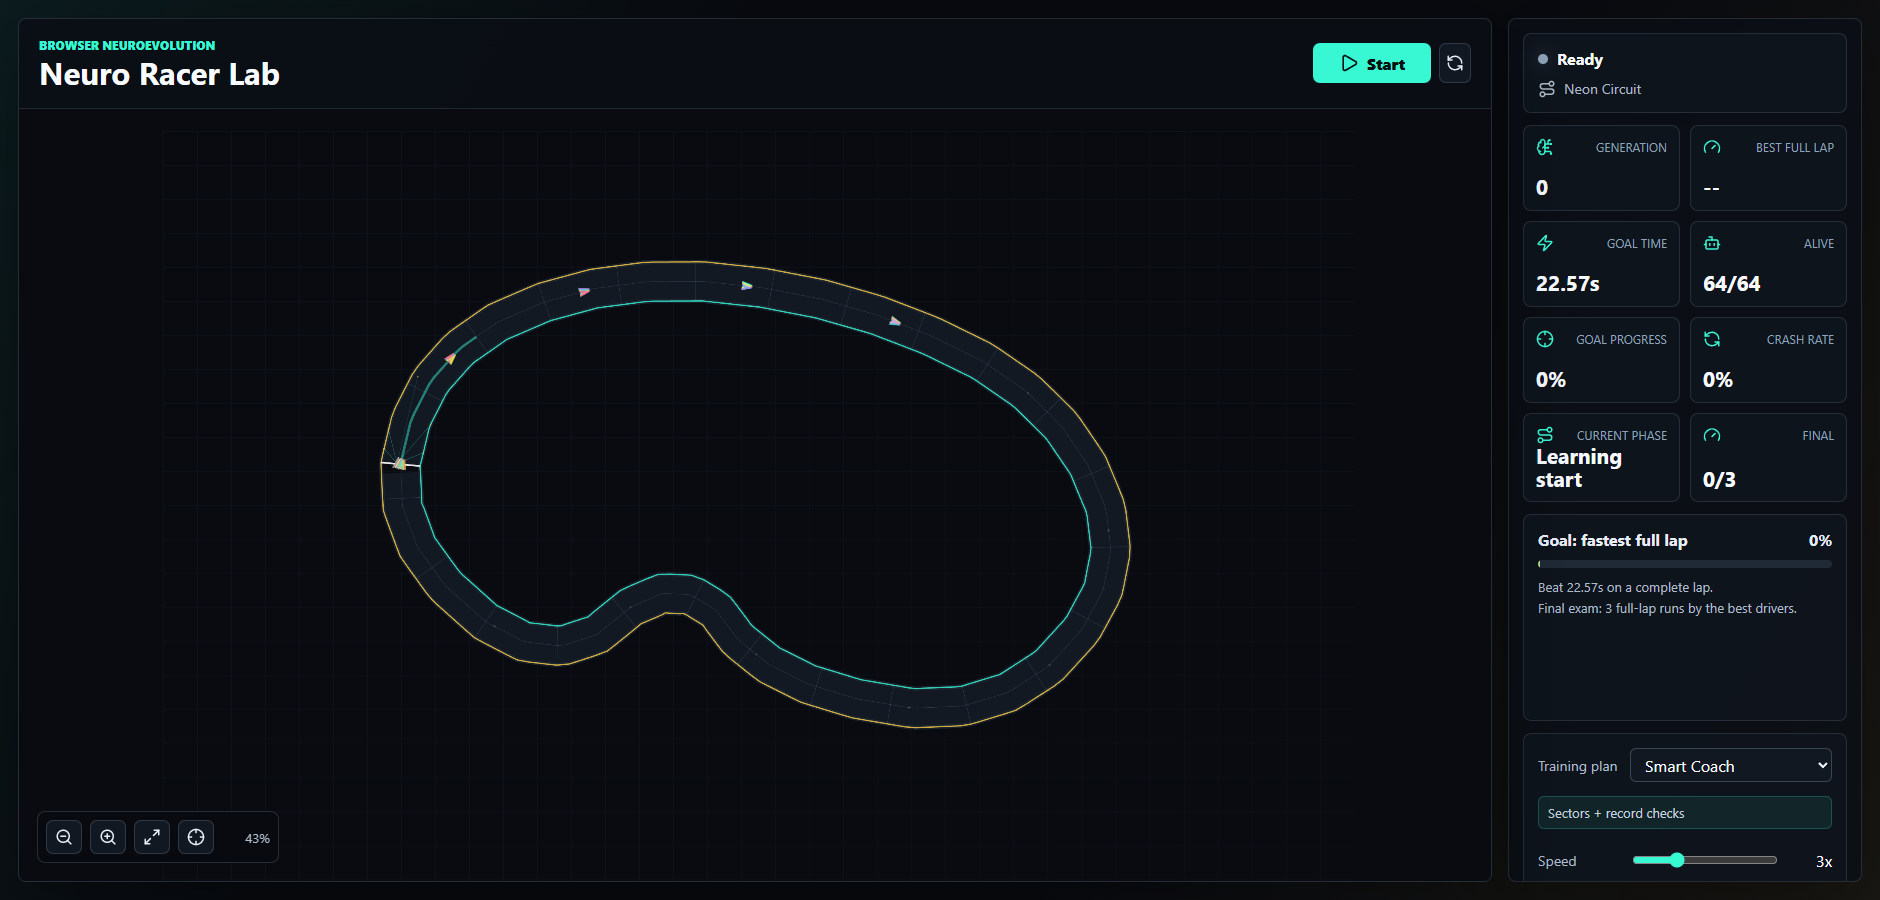
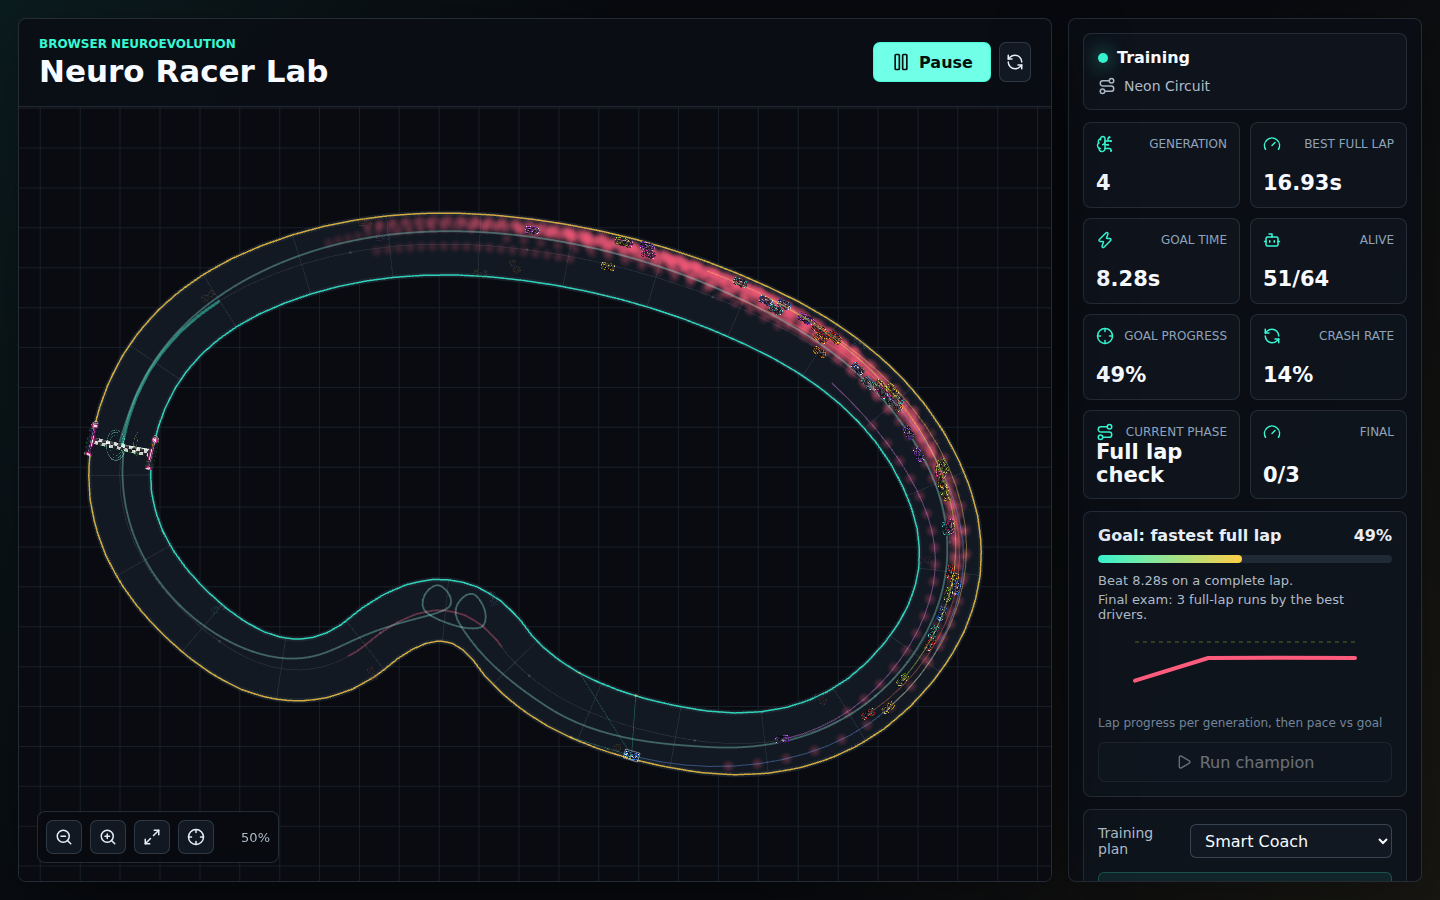
docs: rewrite README for the new engine, headless trainer and QA flow
Documents the architecture, track-aware lap goal, controls, headless
training benchmark, browser QA scripts and deployment; refreshes the
simulator screenshot.

diff --git a/README.md b/README.md
@@ -8,7 +8,7 @@ Interactive neuroevolution racing lab for the browser. Draw a custom track, let 
 [![Phaser](https://img.shields.io/badge/Phaser-3.90-8A2BE2)](https://phaser.io/)
 [![License](https://img.shields.io/badge/License-MIT-green.svg)](LICENSE)
 
-**Live demo:** [neuro-racer-lab.vercel.app](https://neuro-racer-lab.vercel.app)  
+**Live demo:** [neuro-racer-lab.vercel.app](https://neuro-racer-lab.vercel.app)
 **Repository:** [github.com/Blizzeq/neuro-racer-lab](https://github.com/Blizzeq/neuro-racer-lab)
 
 ![Neuro Racer Lab simulator](docs/neuro-racer-lab-demo.png)
@@ -17,70 +17,92 @@ Interactive neuroevolution racing lab for the browser. Draw a custom track, let 
 
 ## What It Does
 
-Neuro Racer Lab is a public web demo where the user trains small neural-network cars to drive a drawn racing line as fast as possible.
+Neuro Racer Lab is a public web demo where a population of small neural networks learns to drive a track you draw, as fast as possible.
 
-- Draw or load a route on a real pan/zoom infinite canvas.
-- The app generates road edges, checkpoints, spawn poses, sectors, and Matter Physics walls.
-- Cars drive in parallel with ray sensors and a compact neural controller.
+- Draw a route on an unbounded pan/zoom canvas (mouse, trackpad, or touch with pinch-zoom).
+- The app smooths the route and builds road walls, checkpoints, sectors, and a spawn pose. Self-crossing, tiny, or overlapping routes are rejected with a clear message.
+- 64 cars drive in parallel with ray sensors and a compact neural controller.
 - A Smart Coach curriculum trains difficult sectors, validates full laps, and finishes with a final exam.
 - The champion is the genome with the shortest completed full lap, not just the highest partial score.
-- Save/load and JSON export/import preserve the track, training config, and best driver.
-- Ghosts, heat traces, sector highlights, and live stats make the learning process visible.
+- Save/load (browser storage) and JSON export/import preserve the track, training config, and best driver.
+- Ghosts, heat traces, sector highlights, sensor rays, and live stats make the learning process visible.
 
 ## Training Goal
 
-The goal is explicit: train the cars until one driver can finish the whole track quickly and consistently.
+The goal is explicit: train until one driver finishes the whole track close to the ideal lap time.
+
+The goal time is derived from the track itself. A reference driver follows the centerline at the car's grip limit, braking before and accelerating out of every corner. The goal is that reference lap plus 8%. A twisty track gets a slower goal than an oval of the same length, and the cars have to learn to brake to reach it.
 
 Smart Coach runs in phases:
 
-1. **Learning start** - builds basic steering and forward progress.
-2. **Sector practice** - starts cars from multiple parts of the track so long routes train faster.
-3. **Hard corner practice** - focuses population pressure on the weakest sectors.
-4. **Full lap validation** - regularly checks whether sector skills combine into a real lap.
-5. **Record attempt** - tries to beat the current target lap time.
-6. **Final exam** - confirms the champion over full-lap attempts.
-7. **Training complete** - unlocks a champion run with the best driver.
+1. **Learning start**: basic steering and forward progress on full laps.
+2. **Sector practice**: cars start from several parts of the track, so long routes train faster.
+3. **Hard corner practice**: population pressure moves to the sectors with the most crashes.
+4. **Full lap validation**: regular checks that sector skills combine into a real lap.
+5. **Record attempt**: tries to beat the current best lap.
+6. **Final exam**: the population must produce a completed full lap in `finalExamRounds` exam generations.
+7. **Training complete**: unlocks a champion run with the best driver.
 
-The UI keeps the advanced genetic algorithm details out of the way by default. Users see the current phase, fastest lap, best full lap, sector coverage, hardest sector, crash rate, and final progress.
+Training also ends (through the final exam) when the best lap has not improved for `goalPatienceGenerations` generations.
 
 ## How Learning Works
 
 Each driver owns a JSON-compatible genome: a flat list of weights for a fixed neural network.
 
-- **Inputs:** wall ray distances, speed, heading error to the look-ahead tangent, and upcoming turn curvature.
-- **Network:** small MLP controller with steering and throttle outputs.
-- **Fitness before a full lap:** forward progress, checkpoint progress, speed, sector completion, and safe wall clearance.
-- **Fitness penalties:** crash, reversing, stagnation, and driving too close to walls.
-- **Final ranking:** once a car completes a lap, shorter full-lap time wins.
-- **Evolution:** elites are retained, the best historical driver seeds teacher mutations, strong parents cross over, and random immigrants keep exploration alive.
+- **Inputs (8):** five wall-distance rays, speed, heading error to the look-ahead tangent, and upcoming turn direction.
+- **Network:** 8 → 7 (tanh) → 2 (tanh) MLP; outputs are steering and throttle/brake.
+- **Car model:** throttle, air drag, brake drag, partial lateral grip, and a grip-limited yaw rate (`v²/r` capped), so tight corners need a slower entry speed.
+- **Fitness before a full lap:** progress along the centerline, sector completion, and speed.
+- **Fitness penalties:** crashes, reversing, stagnation, and driving too close to walls.
+- **Final ranking:** once a car completes a lap, a shorter lap time always wins.
+- **Evolution:** elites are kept, the best historical driver seeds teacher mutations, strong parents cross over, and random immigrants keep exploring.
 
 This is an interactive neuroevolution demo, not a formal reinforcement learning benchmark. The priority is a clear learning loop, strong visual feedback, and a convincing browser experience.
 
-## Main Features
+## Architecture
 
-- Smart Coach default mode for long tracks and beginner-friendly training.
-- Full Lap Race mode for simple start-to-finish training.
-- Manual Lab mode for population and mutation experiments.
-- Panzoom-powered infinite canvas with cursor-centered wheel zoom, fit-to-track, pan, and follow-best.
-- Phaser 3.90 renderer with Matter Physics collisions.
-- Ghost replay for the best full lap and sector attempts.
-- Line heat overlay for frequently driven parts of the route.
-- Local persistence through `localStorage`.
-- Generated car sprites and reusable racing effects used by the simulator.
-- Static Vercel deployment with no backend required.
+The simulation is plain TypeScript with no rendering or DOM dependencies. The same code runs in the browser, in unit tests, and in a headless Node trainer.
+
+```text
+src/
+  lib/
+    geometry.ts         track generation, validation, boundary loop cleanup
+    trackIndex.ts       spatial grid: ray casts, capsule-vs-wall collisions, windowed progress
+    simulation.ts       car physics, sensors, progress, stagnation, fitness, reference lap
+    trainingSession.ts  generation lifecycle: curriculum, evolution, goal, final exam, stats
+    curriculum.ts       Smart Coach sectors and start selection
+    evolution.ts        elitism, teacher mutations, crossover, immigrants
+    neural.ts           genome, MLP evaluation, mutation, crossover
+    storage.ts          save/load and validated JSON import/export
+  sim/RacerScene.ts     Phaser renderer + camera and input (pan, wheel, pinch, drawing)
+  components/           React simulator shell
+  App.tsx               UI, metrics, controls
+scripts/                headless trainer and browser QA scripts
+public/assets/          generated car sprites and effect assets
+```
+
+Implementation notes:
+
+- **Viewport-sized WebGL canvas.** The canvas matches the stage size (× device pixel ratio, capped at 2), and pan/zoom is a Phaser camera. The world is unbounded, so tracks can be drawn anywhere.
+- **Deterministic fixed-step simulation.** Each tick is 1/60 s. Speed settings run 1–64 ticks per frame, capped by a per-frame time budget so the UI stays responsive.
+- **Fast sensing.** Wall segments live in a uniform grid. Rays use grid traversal (DDA), and collisions test the car capsule only against nearby walls. Car speed stays below the capsule diameter, so cars cannot tunnel through walls.
+- **Continuous progress.** Progress along the centerline is tracked with a windowed nearest-segment search. On hairpins a car cannot "jump" to a spatially closer but later part of the track.
+- **Robust tracks.** Corners tighter than half the road width create reversed loops in the inner wall. Those loops are collapsed, so there are no invisible walls inside the road.
+- **Safe imports.** Imported JSON is validated: genome size and finite weights, clamped config, and track geometry rebuilt from the centerline. A broken file cannot crash the simulator.
 
 ## Tech Stack
 
 - Vite 8
 - React 19
 - TypeScript 6
-- Phaser 3.90 with Matter Physics
-- `@panzoom/panzoom`
-- `geneticalgorithm`
+- Phaser 3.90 (WebGL with Canvas fallback)
 - Vitest
+- tsx (headless trainer)
 - Vercel static hosting
 
 ## Local Development
+
+Requires Node.js 22.12 or newer.
 
 ```bash
 npm install
@@ -97,51 +119,57 @@ Open the Vite URL shown in the terminal.
 | `npm test` | Run unit tests with Vitest. |
 | `npm run build` | Type-check and build the static production site. |
 | `npm run preview` | Preview the production build locally. |
-| `npm run observe:training` | Launch Chrome, start training, and log 45 seconds of Smart Coach metrics through the debug hook. |
-| `npm run smoke:ui` | Run a browser smoke test for zoom/fit, drawing, save/load, export/import, and starting training. |
+| `npm run train:headless` | Train in Node (no browser) on benchmark tracks and report learning speed. |
+| `npm run observe:training` | Launch Chrome, start training, and log Smart Coach metrics through the debug hook. |
+| `npm run smoke:ui` | Browser smoke test: zoom/fit, drawing, save/load, export/import, starting training. |
+| `npm run check:canvas` | Reload the app several times and check that the canvas renders (not blank/white). |
 
-## Training Observer
+## Headless Training
 
-For tuning the learning loop, run the dev server in one terminal and the observer in another:
+`TrainingSession` does not depend on the renderer, so the full training loop can run in Node at thousands of ticks per second:
+
+```bash
+npm run train:headless -- --generations=40 --seeds=3 --tracks=preset,oval,kidney,technical --mode=smartCoach
+```
+
+It prints, per track and seed, the generation of the first completed lap, the best lap, the goal time, and the pace relative to the goal. Runs are deterministic for a given seed, so it is the fastest way to check whether a change to physics, fitness, or evolution helps or hurts. Add `--verbose` to log every generation.
+
+## Browser QA
+
+Run the dev server (or `npm run preview`) in one terminal and the scripts in another. The scripts use `playwright-core` with an installed Chrome/Chromium. Set `CHROME_PATH` if it is not in a standard location.
 
 ```bash
 npm run dev
-node scripts/observe-training.mjs --seconds=60 --mode=smartCoach --speed=8 --seed=qa-01
-```
-
-The observer launches the installed Chrome through `playwright-core`, clicks Start, and records phase, generation, alive cars, crash rate, best full-lap time, goal progress, record attempts, and sector coverage. Use the same `--seed` when comparing Smart Coach with `--mode fullLap` or `--mode manualLab`; run observers one at a time because parallel WebGL sessions can distort results. Add `--track=easyLoop` to draw a simple oval regression track before training.
-
-For UI regression checks, keep the dev server running and execute:
-
-```bash
+node scripts/observe-training.mjs --seconds=60 --mode=smartCoach --speed=16 --seed=qa-01
 npm run smoke:ui
+npm run check:canvas
 ```
 
-## Project Structure
+The observer seeds `Math.random`, clicks Start, and records phase, generation, alive cars, crash rate, best lap, goal progress, record attempts, and sector coverage. Add `--track=easyLoop` to draw a simple oval first, or `--url=http://127.0.0.1:4173` to test the preview build. Run observers one at a time, because parallel WebGL sessions can distort results.
 
-```text
-src/
-  components/       React UI and simulator shell
-  lib/              track generation, genome, fitness, curriculum, export logic
-  sim/              Phaser scene, physics, rendering, pan/zoom integration
-public/            static assets
-public/assets/     generated car sprites and reusable effect assets
-docs/              README media
-```
+## Controls
+
+- **Drag** to pan, **mouse wheel / trackpad pinch** to zoom at the cursor, **two-finger pinch** on touch screens.
+- **Draw track**: draw one closed loop in a single stroke. Right- or middle-drag still pans while drawing.
+- **Follow best car**: the camera tracks the current leader and shows its sensor rays.
+- **Reset** (circular arrows): start training from scratch on the current track.
+- **Run champion**: replay the best driver alone on a full lap (available once a champion exists).
 
 ## Visual Assets
 
-The current visual pack was generated for this project and stored as transparent game-ready assets:
+The visual pack was generated for this project and stored as transparent, game-ready assets:
 
-- `public/assets/cars/*.png` - 8 transparent top-down car sprites used by racers in Phaser.
-- `public/assets/effects/*.png` - checkpoint gates, sensor fans, boost streaks, sparks, and rings.
-- `public/assets/manifest.json` - stable paths for reusing the generated assets elsewhere.
-- `docs/neuro-racer-game-assets.png` - preview sheet for the generated asset pack.
-- `public/og-image.png` - OpenGraph preview built from the useful asset pack.
+- `public/assets/cars/*.png`: 8 transparent top-down car sprites used by the racers.
+- `public/assets/effects/*.png`: checkpoint gates, sensor fans, boost streaks, sparks, and rings.
+- `public/assets/manifest.json`: stable paths for reusing the generated assets elsewhere.
+- `docs/neuro-racer-game-assets.png`: preview sheet for the asset pack.
+- `public/og-image.png`: OpenGraph preview built from the asset pack.
 
 ## Deployment
 
-The app is fully static and deploys directly to Vercel.
+The app is fully static. The Vercel project is connected to this GitHub repository: every push creates a preview deployment, and `main` deploys to production.
+
+Manual deploy with the Vercel CLI:
 
 ```bash
 npm run build
@@ -156,7 +184,7 @@ Recommended repository metadata:
 
 - **Description:** Interactive neuroevolution racing lab: draw a track, train neural cars, and run the fastest champion in the browser.
 - **Website:** `https://neuro-racer-lab.vercel.app`
-- **Topics:** `machine-learning`, `neuroevolution`, `genetic-algorithm`, `racing-game`, `phaser`, `matter-physics`, `react`, `typescript`, `vite`, `vercel`, `simulation`, `ai-demo`
+- **Topics:** `machine-learning`, `neuroevolution`, `genetic-algorithm`, `racing-game`, `phaser`, `react`, `typescript`, `vite`, `vercel`, `simulation`, `ai-demo`
 
 ## License
 
